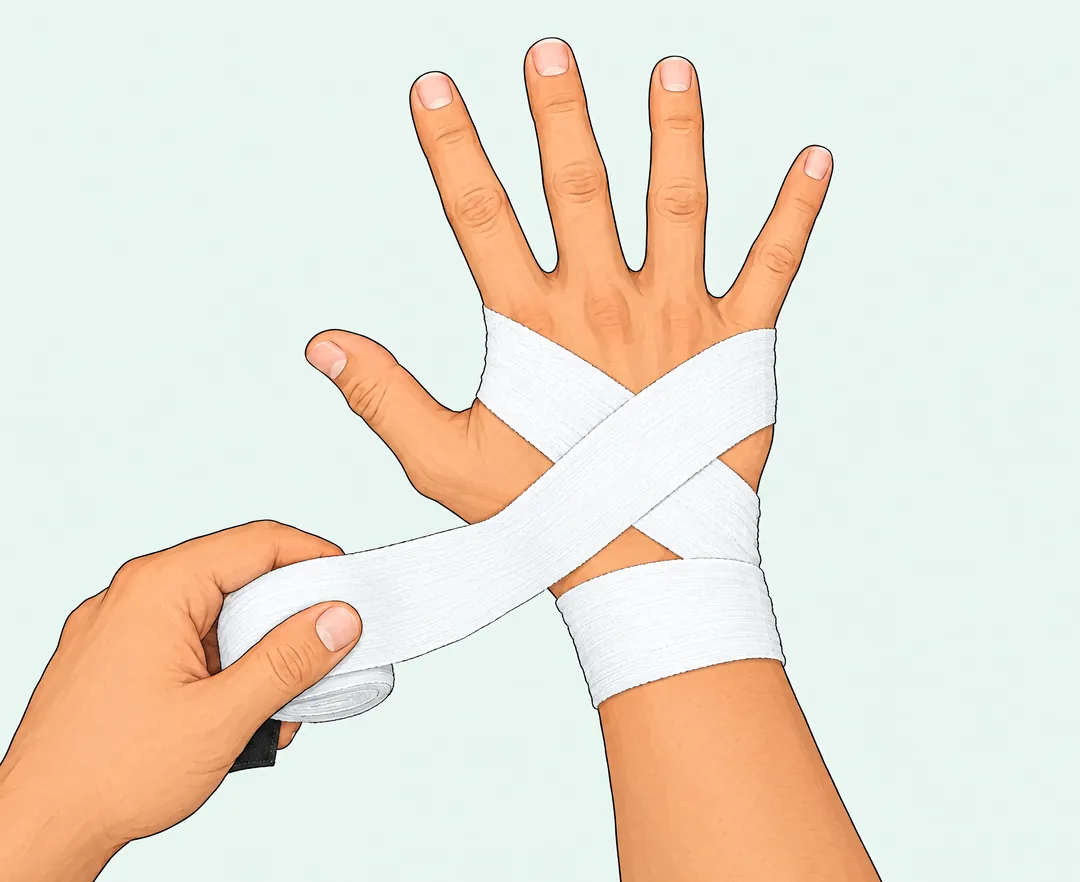
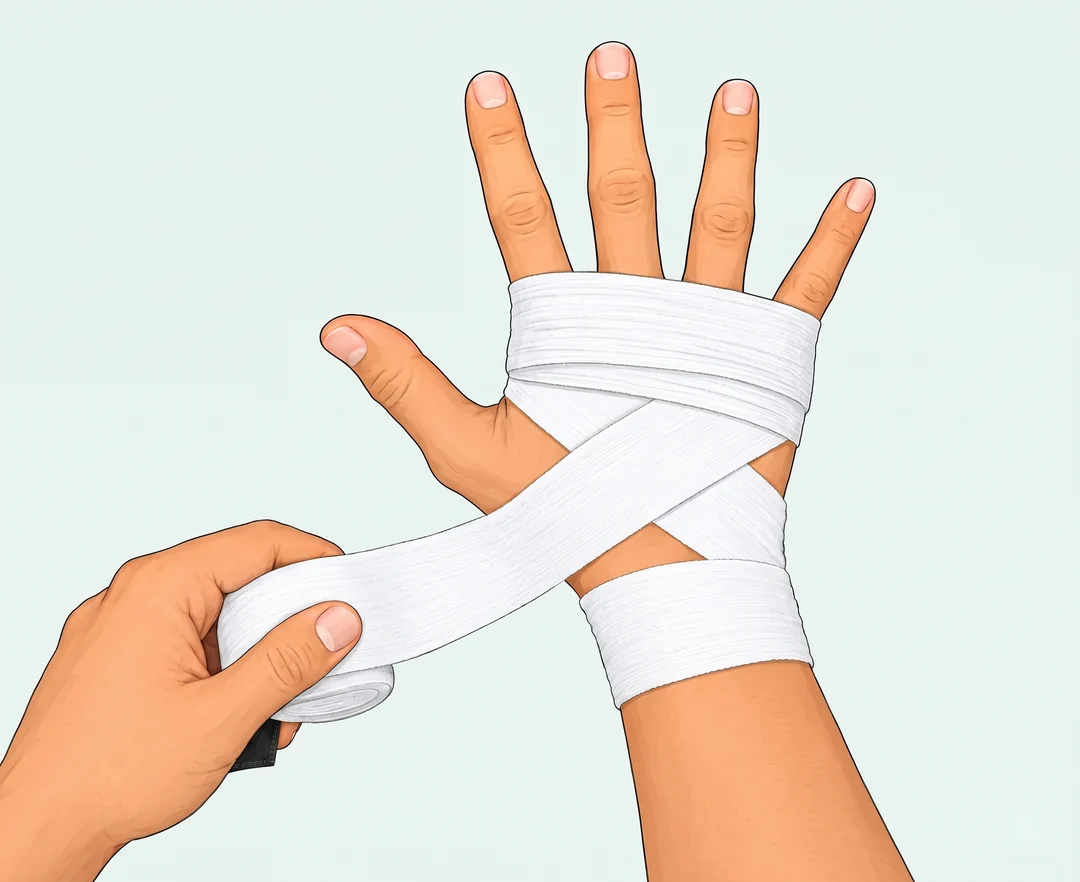
feat(handwrap): 붕대 감기 13단계 — '벨크로'와 '손바닥 정리' 나누기 · 9단계 패드 보이게
대표님: "힉스필드 먼저, 안 되면 다른 서비스" — 힉스필드 크레딧(0.26)이 모자라 제미나이(나노 바나나)로 그림 2장.
- 새 13단계 '손바닥 정리' 그림(step13) + 화살표, 12단계는 '벨크로 붙이기'만
- 9단계 그림: 주먹 패드가 보이게 고친 그림으로 교체, 화살표 좌표 새 그림에 맞춤
- 완성 그림 이름 정리: step13/14 → done-open/done-fist
- 단계 수 문구(12 → 13) · 오삼이 답변 · 훈련 라이브러리 글도 13단계로

Claude-Session: https://claude.ai/code/session_01WP4Wv3phPcXu7LVLsiPPnb

Changed region(s): [[0.275, 0.0306, 0.8556, 1.0], [0.55, 0.7347, 0.6417, 1.0], [0.2444, 0.7959, 0.3361, 0.8265]]

diff --git a/src/data/handWrapGuide.ts b/src/data/handWrapGuide.ts
@@ -1,5 +1,5 @@
 /**
- * 🥊 붕대 감기 가이드 — 153 표준 12단계 · 흔한 실수 · 영상 포인트.
+ * 🥊 붕대 감기 가이드 — 153 표준 13단계 · 흔한 실수 · 영상 포인트.
  *
  *   2026-10-13: 처음 만듦 (그림 8단계).
  *   2026-10-15 대표님: "손 모양이 너무 AI 티가 나" → 그린 손 대신 실제 사진 + 감는 방향 화살표.
@@ -13,7 +13,10 @@
  *     → 그 영상 순서대로 12단계를 다시 쓰고 그림을 같은 그림체로 새로 그림(Higgsfield). 주먹 패드부터 만든다:
  *       검지·중지로 끝 잡기 → 손가락 벌려 감기(남자 2~3·여자 3~4바퀴) → 빼서 한 번 접기 → 주먹 위에 → 끝 라인 2번 고정 → 손목 1바퀴
  *       → 새끼·검지·중지 쪽으로 들어가 엄지 사이로 나오기(지날 때마다 손목 1바퀴) → 남은 붕대는 손목에 → 벨크로 → 손바닥 정리.
- *     예전 '엄지 고리 · 손목 처음 2바퀴 · 손가락 사이 통과'는 뺐다. 완성 화면 = 주먹(step14) + 다 감은 손(step13).
+ *     예전 '엄지 고리 · 손목 처음 2바퀴 · 손가락 사이 통과'는 뺐다.
+ *   2026-10-16 (밤): 영상처럼 '벨크로'와 '손바닥 정리'를 두 단계로 나눠 13단계. 손바닥 정리 그림(step13)과
+ *     패드가 보이게 고친 9단계 그림은 제미나이(나노 바나나)로 그림 — 힉스필드 크레딧이 없어서 (대표님: "힉스필드 먼저, 안 되면 다른 서비스").
+ *     완성 화면 = 주먹(done-fist) + 다 감은 손(done-open).
  *
  *   신규 회원 첫날: 코치님은 한 손만 빠르게 감아 주고, 다른 손은 회원이 이 화면을 보며 직접 감는다.
  *   그다음 '집에서 혼자 감아 보기' 미션 — 목표 일수·보상 숫자는 DB 함수가 정본이다
@@ -34,7 +37,8 @@ import step10 from "@/assets/handwrap/step10.webp";
 import step11 from "@/assets/handwrap/step11.webp";
 import step12 from "@/assets/handwrap/step12.webp";
 import step13 from "@/assets/handwrap/step13.webp";
-import step14 from "@/assets/handwrap/step14.webp";
+import doneFist from "@/assets/handwrap/done-fist.webp";
+import doneOpen from "@/assets/handwrap/done-open.webp";
 
 /** 훈련 라이브러리에서 영상을 찾는 이름 — DB 마이그레이션(handwrap_home_practice)이 이 이름으로 넣는다. 바꾸면 둘 다 */
 export const HANDWRAP_EXERCISE_NAME = "복싱 붕대 감기";
@@ -126,7 +130,7 @@ export const HANDWRAP_STEPS: readonly HandWrapStep[] = [
     body: "같은 방법으로 이번엔 검지 쪽으로 들어가 엄지와 검지 사이로 나와요. 손등에 X자가 생겨요. 그다음 손목 한 바퀴.",
     chip: "손목 1바퀴",
     photo: step09,
-    arrow: { d: "M84 62 Q70 50 56 38", sx: 84, sy: 62, tx: 47, ty: 44, tr: 5 },
+    arrow: { d: "M86 62 Q72 51 59 42", sx: 86, sy: 62, tx: 53, ty: 45, tr: 5 },
   },
   {
     title: "중지 쪽 → 엄지 사이",
@@ -142,22 +146,28 @@ export const HANDWRAP_STEPS: readonly HandWrapStep[] = [
     arrow: { d: "M58 66 Q76 60 92 66 Q96 76 86 82 Q72 86 58 78", sx: 58, sy: 66 },
   },
   {
-    title: "벨크로 붙이고 손바닥 정리",
-    body: "벨크로(찍찍이)를 손목 바깥쪽(손등 쪽)에 꾹 눌러 붙이고, 손바닥 쪽 주름을 펴서 정리해요.",
+    title: "벨크로 붙이기",
+    body: "벨크로(찍찍이)를 손목 바깥쪽(손등 쪽)에 꾹 눌러 붙여요.",
     chip: "벨크로 마무리",
     photo: step12,
     arrow: { d: "M58 78 Q64 73 69 70", sx: 58, sy: 78, tx: 73, ty: 68, tr: 6 },
   },
+  {
+    title: "손바닥 정리",
+    body: "손을 돌려 손바닥 쪽 주름을 손가락으로 쓸어 펴요. 너무 느슨하지도, 너무 꽉 조이지도 않게 정리하면 끝!",
+    photo: step13,
+    arrow: { d: "M57 43 Q71 39.5 86 43", sx: 57, sy: 43 },
+  },
 ];
 
 /** 한눈에 요약 줄 (예전 이름 그대로 — 화면이 이 이름으로 읽는다) */
-export const HANDWRAP_WRIST_TOTAL = "주먹 패드 → 2바퀴 고정 → 새끼·검지·중지 쪽 (지날 때마다 손목 1바퀴) → 벨크로";
+export const HANDWRAP_WRIST_TOTAL = "주먹 패드 → 2바퀴 고정 → 새끼·검지·중지 쪽 (지날 때마다 손목 1바퀴) → 벨크로 → 손바닥 정리";
 
 /** 다 감은 뒤(완성 화면) */
 export const HANDWRAP_DONE = {
   title: "완성!",
   body: "주먹을 꽉 쥐었다 펴 보세요. 마디가 푹신하고 손목이 단단하면 잘 감긴 거예요. 너무 느슨하거나 너무 꽉 감지 않게 여러 번 연습해요 — 손끝이 저리거나 하얘지면 풀고 다시 감아요.",
-  photos: [step14, step13] as const,
+  photos: [doneFist, doneOpen] as const,
 } as const;
 
 export interface HandWrapMistake {

diff --git a/src/lib/appSearch.ts b/src/lib/appSearch.ts
@@ -239,8 +239,8 @@ export const FEATURES: readonly SearchEntry[] = [
     ["레벨업", "승급", "랭크업", "리그", "화이트", "블루", "레드", "블랙", "출석 3번", "레벨 올리기", "등급"], { boost: 2 }),
   f("rankup-guide", "타이틀매치 · 직행권 안내", "심사 기준과 관문 직행권 한 장 정리", "medal", { kind: "href", href: "/rankup" },
     ["타이틀매치", "직행권", "관문 직행권", "패스트트랙", "심사 기준", "타이틀매치 미션", "승급 안내"]),
-  // 붕대 감기 (/handwrap) — 그림 12단계·영상·집 연습 미션 (2026-10-13, 2026-10-16 153 방법으로 다시)
-  f("handwrap", "붕대 감기", "그림 12단계 · 영상 · 집 연습 미션", "handwrap", go("/handwrap"),
+  // 붕대 감기 (/handwrap) — 그림 13단계·영상·집 연습 미션 (2026-10-13, 2026-10-16 153 방법으로 다시)
+  f("handwrap", "붕대 감기", "그림 13단계 · 영상 · 집 연습 미션", "handwrap", go("/handwrap"),
     ["붕대", "붕대 감기", "붕대 감는 법", "붕대 감는 방법", "핸드랩", "핸드 랩", "랩 감기", "밴디지", "손 붕대", "집 연습", "붕대 미션"], { boost: 2 }),
   f("training-library", "훈련 라이브러리", "동작 설명 · 그림", "books", go("/training-library"),
     ["라이브러리", "운동 설명", "드릴", "동작 그림", "운동법"]),

diff --git a/src/pages/TrainingLibraryPage.tsx b/src/pages/TrainingLibraryPage.tsx
@@ -193,13 +193,13 @@ const TrainingLibraryPage = () => {
               ) : (
                 <video src={sel.video_url} controls playsInline className="mb-3 w-full rounded-xl bg-black" />
               ))}
-            {/* 붕대 감기는 전용 화면(그림 12단계·집 연습 미션)으로 */}
+            {/* 붕대 감기는 전용 화면(그림 13단계·집 연습 미션)으로 */}
             {sel.name === HANDWRAP_EXERCISE_NAME && (
               <button
                 onClick={() => navigate("/handwrap")}
                 className="mb-3 flex w-full items-center justify-between rounded-xl bg-primary/10 px-3.5 py-3 text-left text-sm font-bold text-primary transition-all active:scale-[0.99]"
               >
-                그림 12단계로 따라 하기 · 집 연습 미션
+                그림 13단계로 따라 하기 · 집 연습 미션
                 <ChevronRight className="h-4 w-4 shrink-0" />
               </button>
             )}

diff --git a/src/lib/appMenu.ts b/src/lib/appMenu.ts
@@ -24,7 +24,7 @@ export const APP_MENU: readonly AppMenuItem[] = [
   // 타이틀매치 — 레벨 10·20·30·40 심사 동작 영상만 모아 둔 곳 (2026-10-01). 첫 줄에 둔다.
   { path: "/title-match", label: "타이틀매치", glyph: "titlematch" },
   { path: "/minigame", label: "복싱 트레이닝", glyph: "glove" },
-  // 붕대 감기 — 그림 12단계·영상·집 연습 미션 (2026-10-13, 2026-10-16 153 방법으로 다시). 신규 회원 첫날 코치님이 한 손, 회원이 이 화면 보며 한 손.
+  // 붕대 감기 — 그림 13단계·영상·집 연습 미션 (2026-10-13, 2026-10-16 153 방법으로 다시). 신규 회원 첫날 코치님이 한 손, 회원이 이 화면 보며 한 손.
   { path: "/handwrap", label: "붕대 감기", glyph: "handwrap" },
   { path: "/training-library", label: "훈련 라이브러리", glyph: "books" },
   { path: "/routines", label: "수업 루틴", glyph: "clipboard" },

diff --git a/src/pages/HandWrapGuidePage.tsx b/src/pages/HandWrapGuidePage.tsx
@@ -1,5 +1,5 @@
 /**
- * 🥊 붕대 감기 — 그림 12단계 · 영상 · 집 연습 미션 (2026-10-13 대표님, 2026-10-15 사진·방향 화살표로 다시, 2026-10-16 153 방법(주먹 패드)으로 다시).
+ * 🥊 붕대 감기 — 그림 13단계 · 영상 · 집 연습 미션 (2026-10-13 대표님, 2026-10-15 사진·방향 화살표로 다시, 2026-10-16 153 방법(주먹 패드)으로 다시).
  *
  *   신규 회원 첫날: 코치님은 한 손만 빠르게 감아 주고, 다른 손은 회원이 이 화면을 보며 직접 감는다.
  *   그리고 집에서 혼자 감아 보는 미션(HandWrapPracticeCard) — 다음 수업 때 코치님이 회원 상세에서 기록을 본다.

diff --git a/src/App.tsx b/src/App.tsx
@@ -128,7 +128,7 @@ const SearchPage = lazyWithRetry(() => import("@/pages/SearchPage"));
 const TitleMatchPage = lazyWithRetry(() => import("@/pages/TitleMatchPage"));
 // 알림함 — 공지·출석·수업 소식 (2026-10-01 대표님)
 const NotificationsPage = lazyWithRetry(() => import("@/pages/NotificationsPage"));
-// 붕대 감기 — 그림 12단계·영상·집 연습 미션 (2026-10-13 대표님, 2026-10-16 153 방법으로 다시)
+// 붕대 감기 — 그림 13단계·영상·집 연습 미션 (2026-10-13 대표님, 2026-10-16 153 방법으로 다시)
 const HandWrapGuidePage = lazyWithRetry(() => import("@/pages/HandWrapGuidePage"));
 
 const queryClient = new QueryClient({
